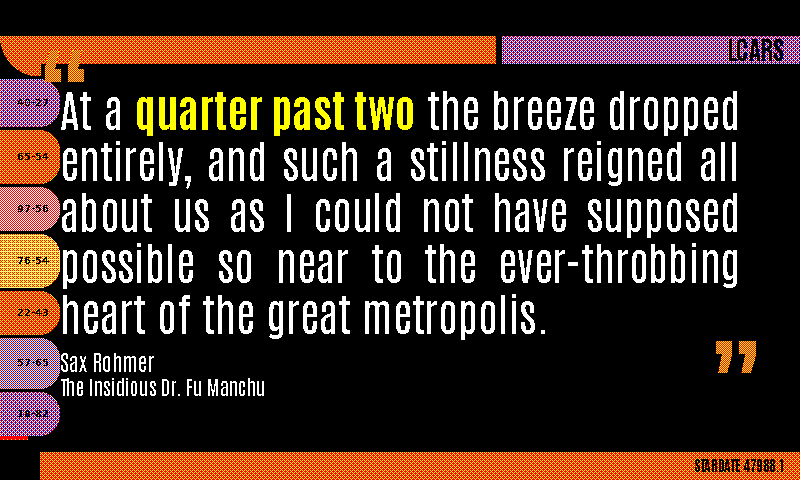
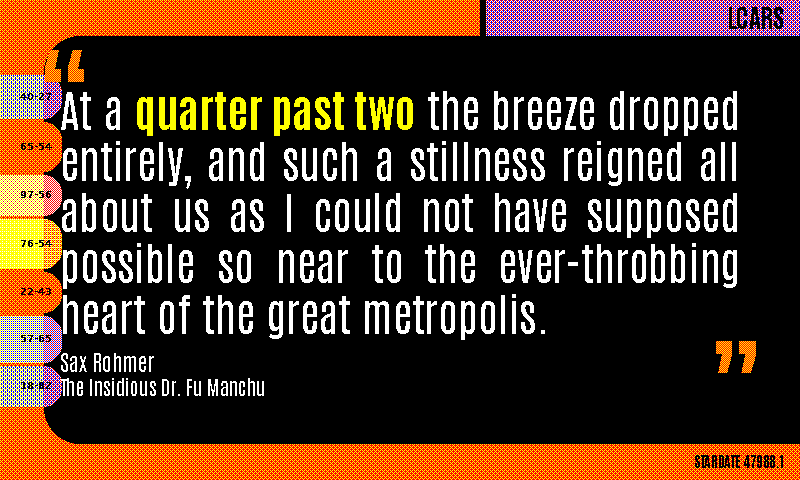
LCARS theme: anchor chrome at canvas corner (fix "backwards" elbow)
Previous geometry placed the top + bottom bars at y=36 and
y=height-36, with quarter-circle elbows BELOW / ABOVE the bars
connecting them to the rail. That left an empty black strip above
the top bar (and below the bottom bar) — visually the chrome was
floating in the middle of the canvas rather than wrapping the
canvas corner the way every real LCARS console panel does. The
user's "top left corner looks backwards" review called this out.

Rebuild the chrome as a continuous L-shape anchored at the canvas
corner:

* Top bar at y = 0..bar_thickness-1 (touches the canvas top edge).
* Bottom bar at y = height-bar_thickness..height-1 (touches the
  canvas bottom edge).
* Left rail at x = 0..rail_width-1 (touches the canvas left edge,
  full height).
* The outer perimeter is a hard right angle at the canvas corner
  (matches the reference wallpaper).
* The inner concave corner where bar meets rail is ROUNDED via a
  quarter-circle fillet: paint a chrome square at the inner corner,
  then carve out the page-interior quarter-disc with page_bg. The
  remaining L-shaped fillet gives the smooth inner curve every LCARS
  elbow has.

Bumped bar_thickness 28 → 36 so the 26-pt LCARS wordmark comfortably
fits inside the bar (the wordmark is now black-on-lavender against
the lavender-segment of the top bar). Rail blocks moved to start
BELOW the top fillet and end ABOVE the bottom fillet.

DEBUG MODE banner (y=14..29 yellow-on-bar) now sits ON TOP of the
[…]

Changed region(s): [[0.0, 0.0, 1.0, 1.0]]

diff --git a/render_quote.py b/render_quote.py
@@ -3830,6 +3830,25 @@ def draw_lcars_border(image: Image.Image, colors: dict) -> None:
       to the bare "LCARS" identifier so it sits inside the bar's
       18 px band without bleeding into the body region.
 
+    The chrome is a continuous L-shape that **wraps the canvas
+    corner** — the outer perimeter follows ``x = 0`` (canvas left edge)
+    and ``y = 0`` / ``y = height-1`` (canvas top/bottom edges) at a
+    hard right angle. The INNER corners (where the top/bottom bar
+    meets the rail) are rounded by a quarter-circle fillet of radius
+    ``inner_corner_r``. This is the canonical Okudagram silhouette:
+    the outer edge hugs the screen bezel, the inner edge curves
+    gently into the page interior. (An earlier revision placed the
+    chrome BELOW the canvas top, leaving an empty black strip above
+    the top bar — that's "the corner looks backwards" feedback the
+    user flagged; the chrome now anchors at y = 0.)
+
+    DEBUG MODE banner: in ``--mode debug`` the renderer paints a small
+    yellow "DEBUG MODE" label at y = 14..29 in the top-right. Because
+    the top bar now spans y = 0..bar_thickness-1, the banner sits ON
+    TOP of the chrome — yellow text on tangerine has reduced contrast
+    but stays legible (banner is a dev-only indicator, not deployed
+    in ``--mode production``).
+
     Body-text overlap: the layout pipeline's largest ``max_width`` is
     680 (the ``dense`` layout), centred in the 800-px canvas → body
     text starts at x = 60. The rail blocks extend to x ≈ 60 (rail
@@ -3851,86 +3870,106 @@ def draw_lcars_border(image: Image.Image, colors: dict) -> None:
     label_ink_on_block = SPECTRA6["black"]
 
     # --- Geometry ---
-    bar_thickness = 28                 # bumped from 18: closer to the reference's chunky chrome; sized to comfortably hold the 26 pt LCARS wordmark
-    top_bar_y = 36                     # below the y=14..29 DEBUG MODE banner band
+    bar_thickness = 36              # chunky bars, comfortably accommodates the 26 pt LCARS wordmark
+    rail_width = 44                 # rail thickness; matches the bar weight visually
+    inner_corner_r = 36             # rounded inner-corner fillet radius
+    cap_radius = 18                 # right-cap radius for the rail blocks (PIL's rounded_rectangle with corners= kwarg needs height ≥ 2·radius + 3 px to draw the inner straight segment without erroring; sized so even the 0.13-proportion block clears the floor at ~41 px)
+    block_right = rail_width + cap_radius - 1
+
+    top_bar_y1 = 0
+    top_bar_y2 = bar_thickness - 1
     bottom_bar_y2 = height - 1
     bottom_bar_y1 = bottom_bar_y2 - bar_thickness + 1
-    rail_width = 40                    # bumped from 36: more LCARS rail weight
-    elbow_radius = rail_width
-    cap_radius = 20                    # right-cap radius for the rail blocks
-    block_right = rail_width + cap_radius - 1
-    top_elbow_cy = top_bar_y + elbow_radius
-    bottom_elbow_cy = bottom_bar_y1 - elbow_radius + bar_thickness - 1
 
     page_bg = colors.get("page_bg", SPECTRA6["black"])
+    lavender_sentinel = (1, 1, 1)
 
     # ===========================================================
-    # Layer 1: paint top/bottom bars and elbows in sentinel red
+    # Layer 1: paint top/bottom bars + the left rail full-length
     # ===========================================================
     # The top bar is split into TWO segments separated by a thin black
     # divider (~6 px gap), reproducing the multi-colour Okudagram top-
     # band silhouette from the reference wallpaper. The left segment
-    # (~62% of the bar's width) reads as tangerine after the post-pass;
-    # the right segment (~36%) is converted to lavender via a 3-way
-    # post-pass. The 2 px black gap between them is the canonical LCARS
-    # segment separator.
-    top_bar_left = elbow_radius
-    top_bar_right = width - 1
-    top_bar_inner_w = top_bar_right - top_bar_left + 1
+    # spans the canvas top-left corner (anchored at x = 0, y = 0) so
+    # the chrome wraps the corner; the right segment (~36% of the
+    # remaining width) is converted to lavender via the 3-way post-pass.
     segment_gap = 6
-    seg1_w = int(top_bar_inner_w * 0.60)
-    seg1_left = top_bar_left
+    top_bar_total = width
+    seg1_w = int(top_bar_total * 0.60)
+    seg1_left = 0
     seg1_right = seg1_left + seg1_w - 1
     seg2_left = seg1_right + 1 + segment_gap
-    seg2_right = top_bar_right
-    # First (tangerine) segment of the top bar.
+    seg2_right = width - 1
+    # First (tangerine) segment of the top bar — anchored at x = 0, y = 0
+    # so the chrome occupies the canvas top-left corner.
     draw.rectangle(
-        (seg1_left, top_bar_y, seg1_right, top_bar_y + bar_thickness - 1),
+        (seg1_left, top_bar_y1, seg1_right, top_bar_y2),
         fill=sentinel_red,
     )
-    # Second (lavender) segment of the top bar — painted in the lavender
-    # sentinel so the 3-way post-pass below converts it without touching
-    # the tangerine pixels.
-    lavender_sentinel = (1, 1, 1)
+    # Second (lavender) segment of the top bar.
     draw.rectangle(
-        (seg2_left, top_bar_y, seg2_right, top_bar_y + bar_thickness - 1),
+        (seg2_left, top_bar_y1, seg2_right, top_bar_y2),
         fill=lavender_sentinel,
     )
     # Bottom bar — single tangerine ribbon (the reference's bottom edge
-    # is simpler than its top, leaning on the wordmark + DATA NODE
-    # callouts in the corners for visual weight rather than segmenting
-    # the bar itself).
+    # is simpler than its top, leaning on the STARDATE callout for
+    # visual weight rather than segmenting the bar itself).
     draw.rectangle(
-        (elbow_radius, bottom_bar_y1, width - 1, bottom_bar_y2),
+        (0, bottom_bar_y1, width - 1, bottom_bar_y2),
         fill=sentinel_red,
     )
-    # Top elbow — quarter-disc minus inner pie-slice carve.
-    draw.pieslice(
-        (0, top_bar_y - elbow_radius, 2 * elbow_radius, top_bar_y + elbow_radius),
-        start=90, end=180,
+    # Left rail — full-height vertical strip. Overlaps the top + bottom
+    # bars in their corner squares; the overlap is just chrome, so
+    # there's nothing to reconcile.
+    draw.rectangle(
+        (0, 0, rail_width - 1, height - 1),
         fill=sentinel_red,
     )
-    inner_radius = elbow_radius - bar_thickness
-    if inner_radius > 0:
-        draw.pieslice(
-            (elbow_radius - inner_radius, top_elbow_cy - inner_radius,
-             elbow_radius + inner_radius, top_elbow_cy + inner_radius),
-            start=90, end=180,
-            fill=page_bg,
-        )
-    # Bottom elbow — mirror about y = height / 2.
+
+    # ===========================================================
+    # Layer 2: rounded inner-corner fillets
+    # ===========================================================
+    # The L-shape currently has a SHARP inner-concave corner at
+    # (rail_width, bar_thickness) (top) and (rail_width, height -
+    # bar_thickness) (bottom). To round these to the canonical LCARS
+    # smooth fillet:
+    #   1. Add a chrome square at the inner corner of size r × r.
+    #   2. Carve the page-interior quarter-disc out of that square
+    #      with ``page_bg``.
+    # The remaining L-shaped fillet is what gives the inner edge its
+    # rounded look — outer perimeter still hugs the canvas corner at a
+    # right angle, but the inner edge curves smoothly into the page.
+    # Top fillet: chrome square anchored at (rail_width, bar_thickness),
+    # carve the top-LEFT quadrant of a disc centred at
+    # (rail_width + r, bar_thickness + r). The pieslice angles 180..270
+    # cover the upper-left quadrant of that bounding circle.
+    r = inner_corner_r
+    draw.rectangle(
+        (rail_width, bar_thickness, rail_width + r - 1, bar_thickness + r - 1),
+        fill=sentinel_red,
+    )
     draw.pieslice(
-        (0, bottom_elbow_cy - elbow_radius, 2 * elbow_radius, bottom_elbow_cy + elbow_radius),
+        (rail_width, bar_thickness,
+         rail_width + 2 * r - 1, bar_thickness + 2 * r - 1),
         start=180, end=270,
+        fill=page_bg,
+    )
+    # Bottom fillet — mirror about y = height / 2. Inner corner at
+    # (rail_width, height - bar_thickness - 1); fillet chrome square
+    # extends upward from there; the carve is the bottom-left quadrant
+    # (angles 90..180) of a disc centred at (rail_width + r,
+    # height - bar_thickness - r).
+    draw.rectangle(
+        (rail_width, height - bar_thickness - r,
+         rail_width + r - 1, height - bar_thickness - 1),
         fill=sentinel_red,
     )
-    if inner_radius > 0:
-        draw.pieslice(
-            (elbow_radius - inner_radius, bottom_elbow_cy - inner_radius,
-             elbow_radius + inner_radius, bottom_elbow_cy + inner_radius),
-            start=180, end=270,
-            fill=page_bg,
-        )
+    draw.pieslice(
+        (rail_width, height - bar_thickness - 2 * r,
+         rail_width + 2 * r - 1, height - bar_thickness - 1),
+        start=90, end=180,
+        fill=page_bg,
+    )
 
     # ===========================================================
     # Layer 2: rail blocks between the two elbows
@@ -3942,8 +3981,13 @@ def draw_lcars_border(image: Image.Image, colors: dict) -> None:
     # Spectra 6 palette and require sentinel paint + bbox post-pass —
     # which is why this painter delegates to dedicated helpers
     # (``_lcars_paint_*``) rather than inlining each recipe.
-    rail_top = top_elbow_cy + 3
-    rail_bot = bottom_elbow_cy - 3
+    # Rail blocks slot in between the top + bottom inner-corner fillets,
+    # not the elbow centres (the chrome anchors to the canvas corner
+    # now, no elbow centre exists). Leave a 3-px gutter on each end so
+    # the first/last block doesn't visually merge into the rounded
+    # fillet's bottom/top edge.
+    rail_top = bar_thickness + r + 3
+    rail_bot = height - bar_thickness - r - 3 - 1
     rail_height = rail_bot - rail_top + 1
     block_gap = 3
     # Seven blocks with intentionally non-uniform heights — LCARS panels
@@ -4002,21 +4046,21 @@ def draw_lcars_border(image: Image.Image, colors: dict) -> None:
         cursor_y += bh + block_gap
 
     # ===========================================================
-    # Layer 3: convert the tangerine + lavender top-bar segments
+    # Layer 3: convert the chrome sentinels to tangerine + lavender
     # ===========================================================
-    # The top bar's two segments paint different sentinels (red for
-    # tangerine, ``lavender_sentinel`` for lavender). Run both
-    # post-passes over the top-bar y range — each is sentinel-gated, so
-    # tangerine pixels stay tangerine and lavender pixels stay lavender
-    # without explicit per-segment bookkeeping. The bottom bar (also
-    # painted in sentinel red) gets touched by the same tangerine pass
-    # since it's in the y range.
-    _lcars_post_pass_tangerine(pixels, 0, top_bar_y, width - 1, top_bar_y + bar_thickness - 1, sentinel_red)
-    _lcars_post_pass_tangerine(pixels, 0, bottom_bar_y1, width - 1, bottom_bar_y2, sentinel_red)
-    _lcars_paint_lavender_block(pixels, seg2_left, top_bar_y, seg2_right, top_bar_y + bar_thickness - 1, lavender_sentinel)
-    # Convert the elbows too (they painted sentinel red).
-    _lcars_post_pass_tangerine(pixels, 0, top_bar_y - elbow_radius, 2 * elbow_radius, top_elbow_cy, sentinel_red)
-    _lcars_post_pass_tangerine(pixels, 0, bottom_elbow_cy, 2 * elbow_radius, bottom_bar_y2, sentinel_red)
+    # The chrome's sentinel-red pixels (top bar left segment, bottom
+    # bar, rail, both inner-corner fillets) convert to tangerine in a
+    # single full-width sweep over the chrome's y extent. The lavender
+    # segment uses a different sentinel so it's untouched by the
+    # tangerine pass; its 3-way Bayer post-pass runs on the lavender
+    # segment's bbox separately.
+    _lcars_post_pass_tangerine(pixels, 0, top_bar_y1, width - 1, top_bar_y2 + r, sentinel_red)
+    _lcars_post_pass_tangerine(pixels, 0, bottom_bar_y1 - r, width - 1, bottom_bar_y2, sentinel_red)
+    # Rail middle — the section between the two corner fillets where
+    # only the sentinel-red rail strip needs converting (the rail
+    # blocks below will overpaint their portions).
+    _lcars_post_pass_tangerine(pixels, 0, top_bar_y2 + r + 1, rail_width - 1, bottom_bar_y1 - r - 1, sentinel_red)
+    _lcars_paint_lavender_block(pixels, seg2_left, top_bar_y1, seg2_right, top_bar_y2, lavender_sentinel)
 
     # ===========================================================
     # Layer 4: black labels centred inside each block
@@ -4053,7 +4097,7 @@ def draw_lcars_border(image: Image.Image, colors: dict) -> None:
     wordmark_w = wordmark_bbox[2] - wordmark_bbox[0]
     wordmark_h = wordmark_bbox[3] - wordmark_bbox[1]
     wordmark_x = width - 16 - wordmark_w
-    wordmark_y = top_bar_y + (bar_thickness - wordmark_h) // 2 - wordmark_bbox[1]
+    wordmark_y = top_bar_y1 + (bar_thickness - wordmark_h) // 2 - wordmark_bbox[1]
     draw.text(
         (wordmark_x, wordmark_y),
         wordmark_text,
